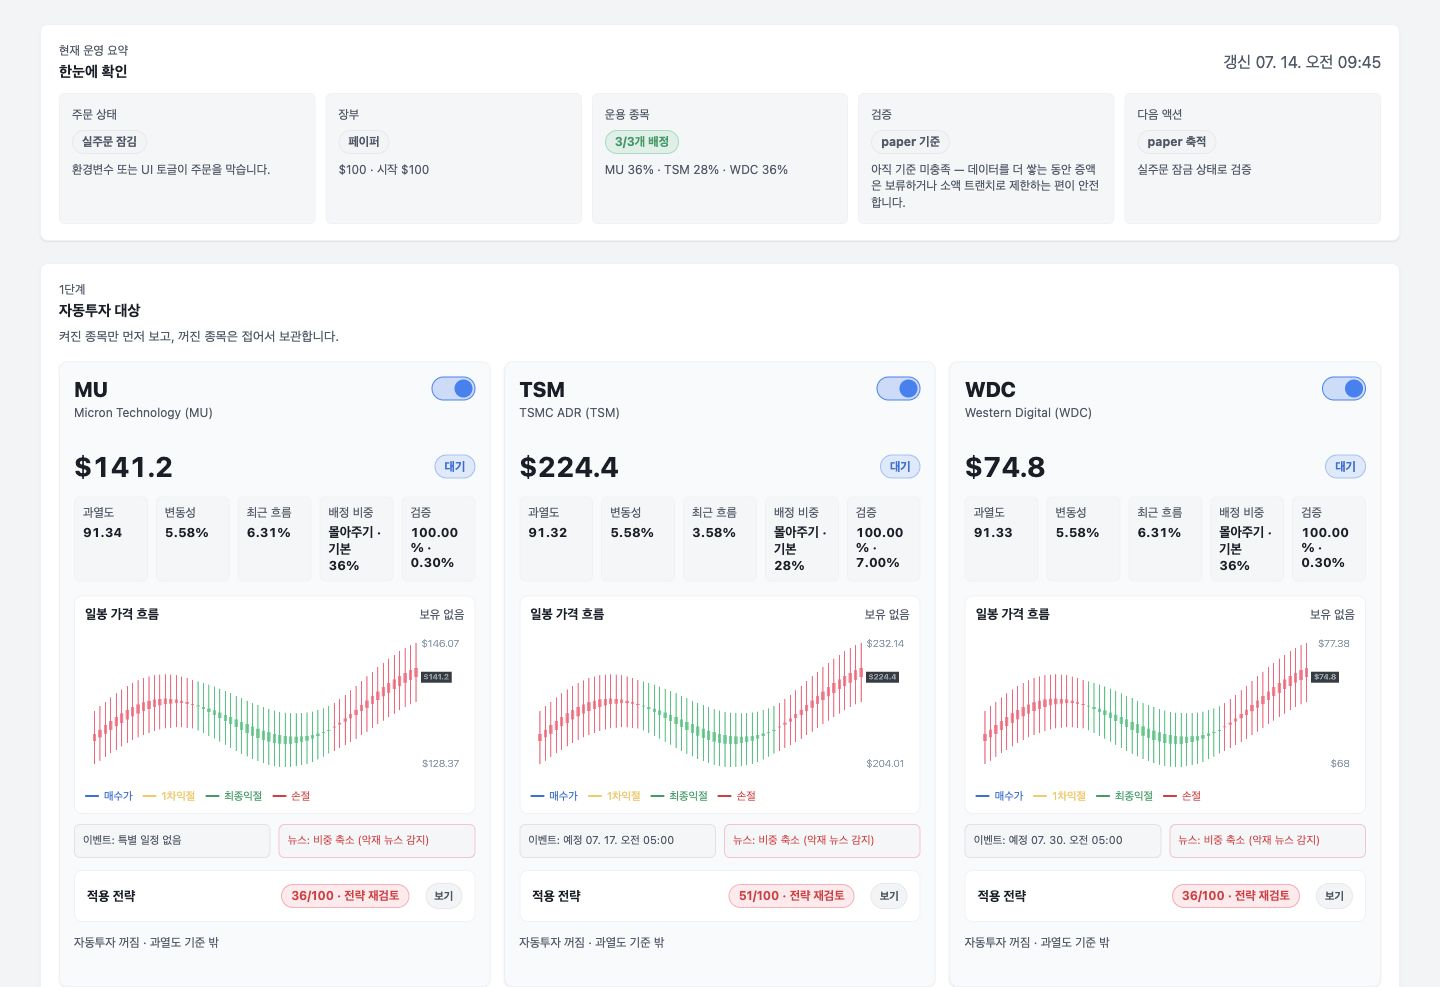
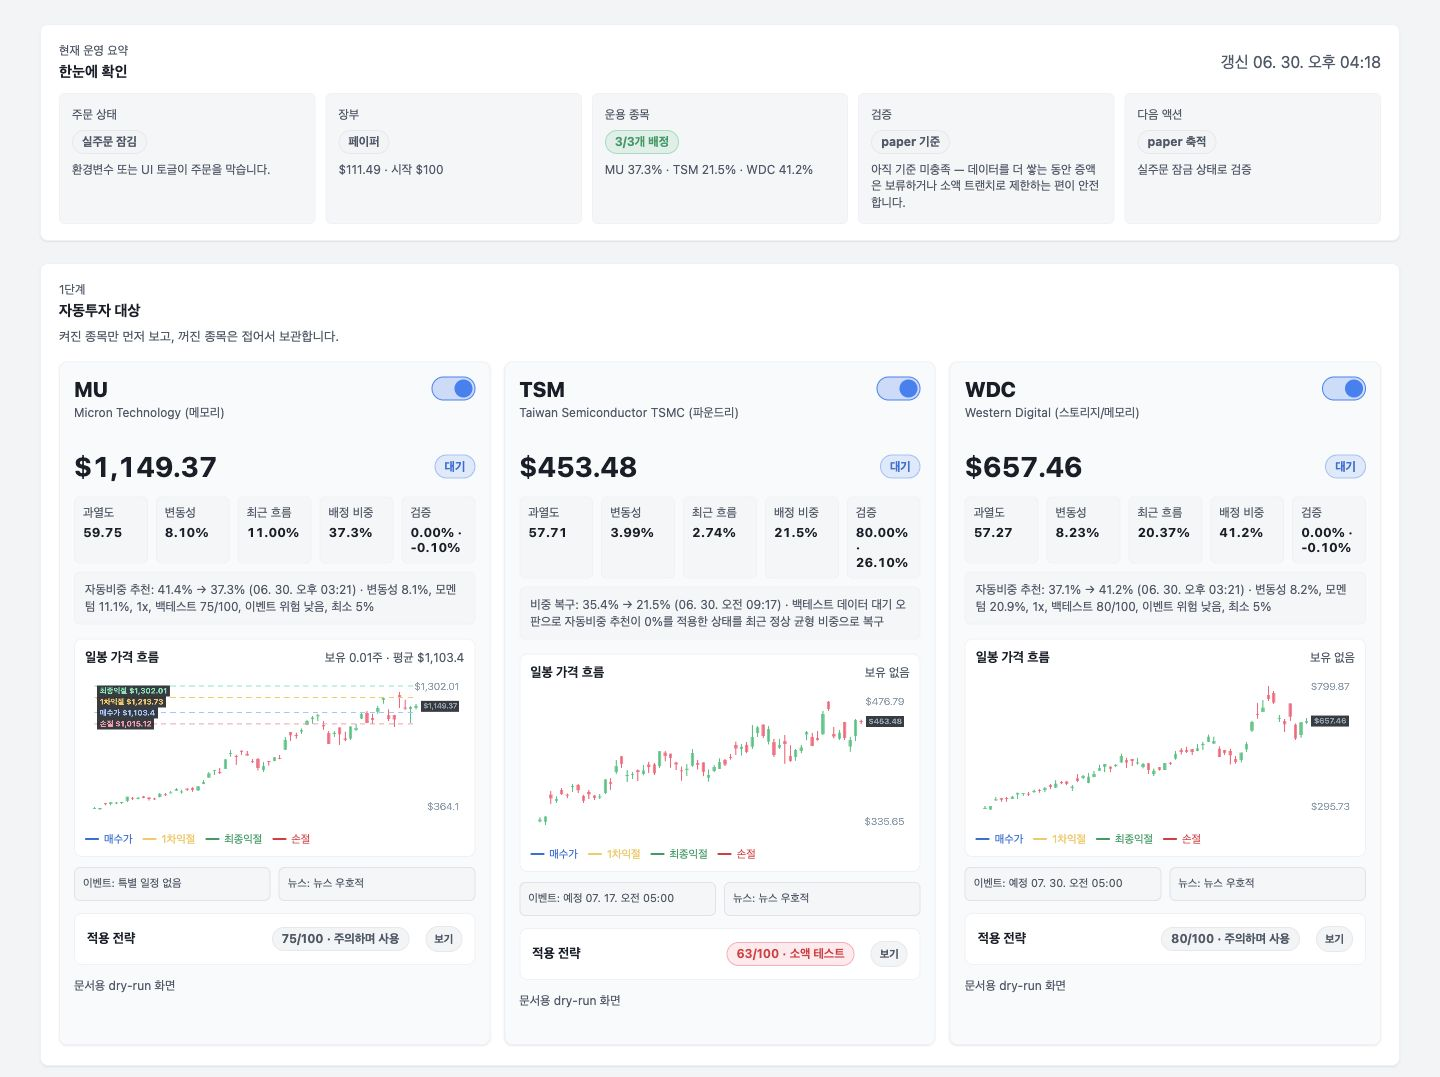
docs: replace mock charts with real candle screenshots

diff --git a/WORKLOG.md b/WORKLOG.md
@@ -4,6 +4,30 @@
 
 > 번호 표기: 아래 `#n`은 Claude가 수행한 "전반 코드/전략 검토"에서 매긴 항목 번호입니다(Codex가 매핑하기 쉽게 보존).
 
+### 2026-07-14 — 작성자: Codex (README 차트 이미지 정정)
+- 문제/목적:
+  - 사용자 확인 결과 README 스크린샷의 매끈한 합성 캔들이 실제 사이트에서 구현한 일봉 캔들 차트와 다르고, 보유 포지션이 없어 매수가·1차익절·최종익절·손절선도 보이지 않았음.
+- 진단(근거):
+  - 첫 문서 화면은 계좌정보 보호를 위해 `mockCandles`만 사용했으므로 실제 시장처럼 불규칙한 캔들 모양이 아니었음.
+  - mock 보유량이 0이라 `chart.lines`가 `null`이었고, 사용자가 요청해 구현했던 네 개 가격선이 스크린샷에서 빠졌음.
+- 수정 내용:
+  - 운영 state에서 종목별 최근 60개 일봉 차트 데이터만 읽어 별도 임시 `DATA_DIR`에 복사하고, 계좌·체결·주문·수익·수동보유·IP 정보를 제거한 문서용 상태를 생성.
+  - MU에 0.01주의 설명용 합성 포지션을 넣어 매수가·1차익절·최종익절·손절선과 실제 차트 라벨 배치가 보이도록 데스크톱·모바일 이미지를 재촬영.
+  - README에 실제 계좌 데이터가 아닌 익명화 dry-run + 합성 포지션임을 명시.
+- 건드린 파일/함수:
+  - `README.md`
+  - `docs/screenshots/dashboard-desktop.jpg`
+  - `docs/screenshots/dashboard-mobile.jpg`
+  - `WORKLOG.md`
+- 검증 방법과 결과:
+  - 문서 캡처 서버에서는 `Trader.prototype.start`를 임시로 비활성화해 운영 루프와 주문 경로를 완전히 차단.
+  - 데스크톱 1440px: 활성 카드 3개, MU 합성 포지션·네 가격선 표시, 콘솔 error/warn 없음, 가로 overflow 없음.
+  - 모바일 390px: MU 카드·가격선 표시, 콘솔 error/warn 없음, 가로 overflow 없음.
+  - 실제 계좌 보유·체결·공인 IP가 이미지에 포함되지 않았음을 시각 검수.
+- 가정/주의(다른 에이전트가 검토해야 할 점):
+  - 이미지의 캔들 형태는 운영 state에 저장된 실제 일봉이지만 가격 시점과 합성 보유 포지션은 제품 기능 설명용이며 투자 성과 증빙이 아님.
+  - 이번 변경은 문서와 이미지에만 해당하며 실거래 엔진·운영 state는 변경하지 않음.
+
 ### 2026-07-14 — 작성자: Codex
 - 문제/목적:
   - 원격 저장소가 최신인지 확인하고, 실제 서비스 화면·아키텍처·사용자의 문제 해결 과정을 GitHub README와 이력서용 문서로 정리.

diff --git a/README.md b/README.md
@@ -14,7 +14,7 @@
   <img src="docs/screenshots/dashboard-mobile.jpg" width="360" alt="모바일 대시보드" />
 </p>
 
-스크린샷은 실제 계좌가 아닌 모의 API와 `dry-run` 데이터로 촬영했습니다.
+스크린샷은 저장된 실제 일봉 캔들을 익명화된 `dry-run` 상태에서 렌더링했습니다. MU 보유량과 매수가·익절·손절선은 차트 기능을 보여주기 위한 설명용 합성 포지션이며, 실제 계좌·체결·공인 IP는 포함하지 않았습니다.
 
 ## 해결하려던 문제
 
